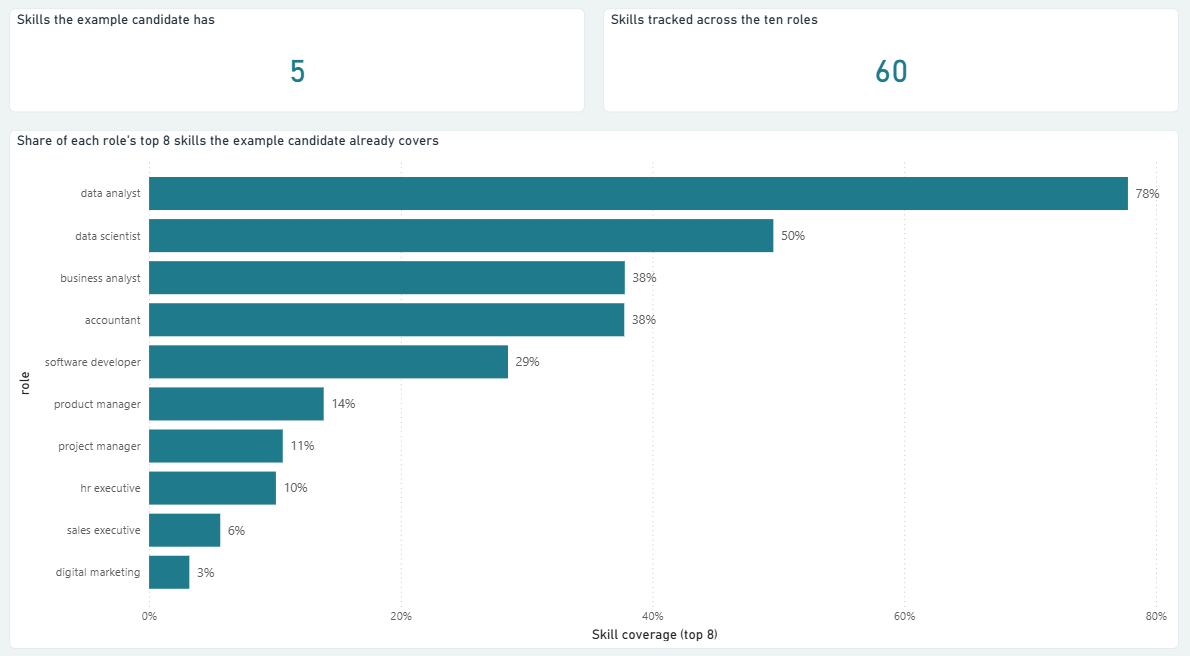
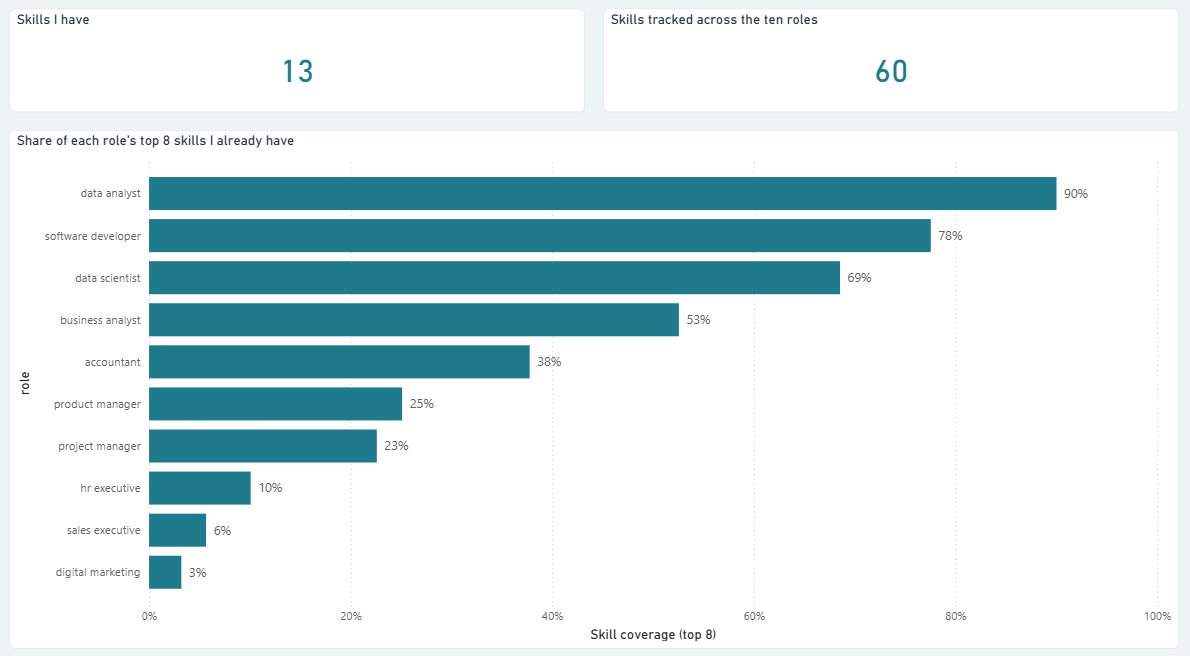
used my own skills for the skill gap check

diff --git a/README.md b/README.md
@@ -31,16 +31,16 @@ Each role asks for quite different things, so I always compare against one targe
 
 ## Skill gap check
 
-The example candidate knows SQL, Excel, Power BI, Python and statistics. Coverage is the share of a role's top eight skills (weighted by how often each is mentioned) that the candidate already has.
+These are my own skills: SQL, Excel, Power BI, Python, statistics, ETL, machine learning, Java, Spring Boot, Git, React, JavaScript and Agile. Coverage is the share of a role's top eight skills (weighted by how often each is mentioned) that I already have.
 
 | Role | Coverage | Biggest gaps |
 |---|---|---|
-| Data analyst | 78% | Tableau, ETL, machine learning |
-| Data scientist | 50% | machine learning, deep learning, AWS |
-| Business analyst | 38% | requirements, Agile, JIRA |
+| Data analyst | 90% | Tableau |
+| Software developer | 78% | AWS, Docker |
+| Data scientist | 69% | deep learning, AWS, NLP |
+| Business analyst | 53% | requirements, JIRA, Tableau |
 | Accountant | 38% | GST, Tally, SAP |
-| Software developer | 29% | Java, AWS, JavaScript |
-| Product manager | 14% | stakeholder, roadmap, analytics |
+| Product manager | 25% | stakeholder, roadmap, analytics |
 
 ![Skill gap by role](images/skill_gap_by_role.png)
 
@@ -86,7 +86,7 @@ More in [`notebooks/data_analyst_deep_dive.ipynb`](notebooks/data_analyst_deep_d
 - A skill being mentioned doesn't mean it's required.
 - I only count postings with the role in the title, so "HR generalist" isn't counted under "hr executive".
 - The skill lists are my own choice, and salary figures include Adzuna's estimates.
-- The gap score ignores experience, degrees and soft skills, and the example candidate is made up.
+- The gap score ignores experience, degrees and soft skills.
 - It only covers India.
 
 ## What's in the repo
@@ -96,7 +96,7 @@ More in [`notebooks/data_analyst_deep_dive.ipynb`](notebooks/data_analyst_deep_d
 - [`sql/job_market_queries.sql`](sql/job_market_queries.sql): 19 SQL queries (joins, window functions, CTEs, a skill-gap query) with the results I got
 - [`analysis/skill_gap.py`](analysis/skill_gap.py): the command-line gap tool
 - [`powerbi/`](powerbi/): the Power BI project
-- [`data/`](data/): the cleaned datasets and the example candidate, with a short [column guide](data/README.md)
+- [`data/`](data/): the cleaned datasets and my own skills list, with a short [column guide](data/README.md)
 - [`data_collection/`](data_collection/): the scripts that collect and clean the data
 - [`docs/web-app.md`](docs/web-app.md): an earlier web app version (FastAPI, React, MongoDB)
 

diff --git a/powerbi/README.md b/powerbi/README.md
@@ -4,8 +4,8 @@ The dashboard has five pages and uses the cleaned CSV files in `../data/`.
 
 1. Roles at a glance: postings, remote mentions and rough advertised salary for the ten roles.
 2. Skills by role: pick a role and see the share of its postings that mention each skill.
-3. Skill gap across roles: how much of each role's top 8 skills the example candidate already covers.
-4. Skill gap for one role: pick a target role and see its skills, their demand and which ones the example candidate has.
+3. Skill gap across roles: how much of each role's top 8 skills I already have.
+4. Skill gap for one role: pick a target role and see its skills, their demand and which ones I have.
 5. Data analyst postings: 212 recent data analyst postings (roles, cities, seniority, remote postings).
 
 ## Open the project
@@ -18,7 +18,7 @@ To try a different candidate, edit `data/candidate_skills.csv` (set `have` to Ye
 
 ## How it's built
 
-The model has three tables. `role_demand` holds the skill counts for the ten roles, `candidate_skills` is the example candidate and `jobs` is the 212 data analyst postings. `role_demand` and `candidate_skills` are linked on the skill name.
+The model has three tables. `role_demand` holds the skill counts for the ten roles, `candidate_skills` is my own skills list and `jobs` is the 212 data analyst postings. `role_demand` and `candidate_skills` are linked on the skill name.
 
 Skill coverage is a DAX measure. It takes a role's top 8 skills with `TOPN`, checks through the relationship whether the candidate has each one, and divides the demand share of the skills they have by the total. It matches the Python script and the SQL query.
 

diff --git a/data/README.md b/data/README.md
@@ -18,7 +18,7 @@ One row per role and term. This is what the main analysis and the skill gap use.
 
 ## candidate_skills.csv
 
-The example candidate: one row per skill with `have` set to Yes or No. Change it to try your own skills.
+My own skills: one row per skill with `have` set to Yes or No. Change it to try your own skills.
 
 ## india_data_analyst_jobs.csv
 
